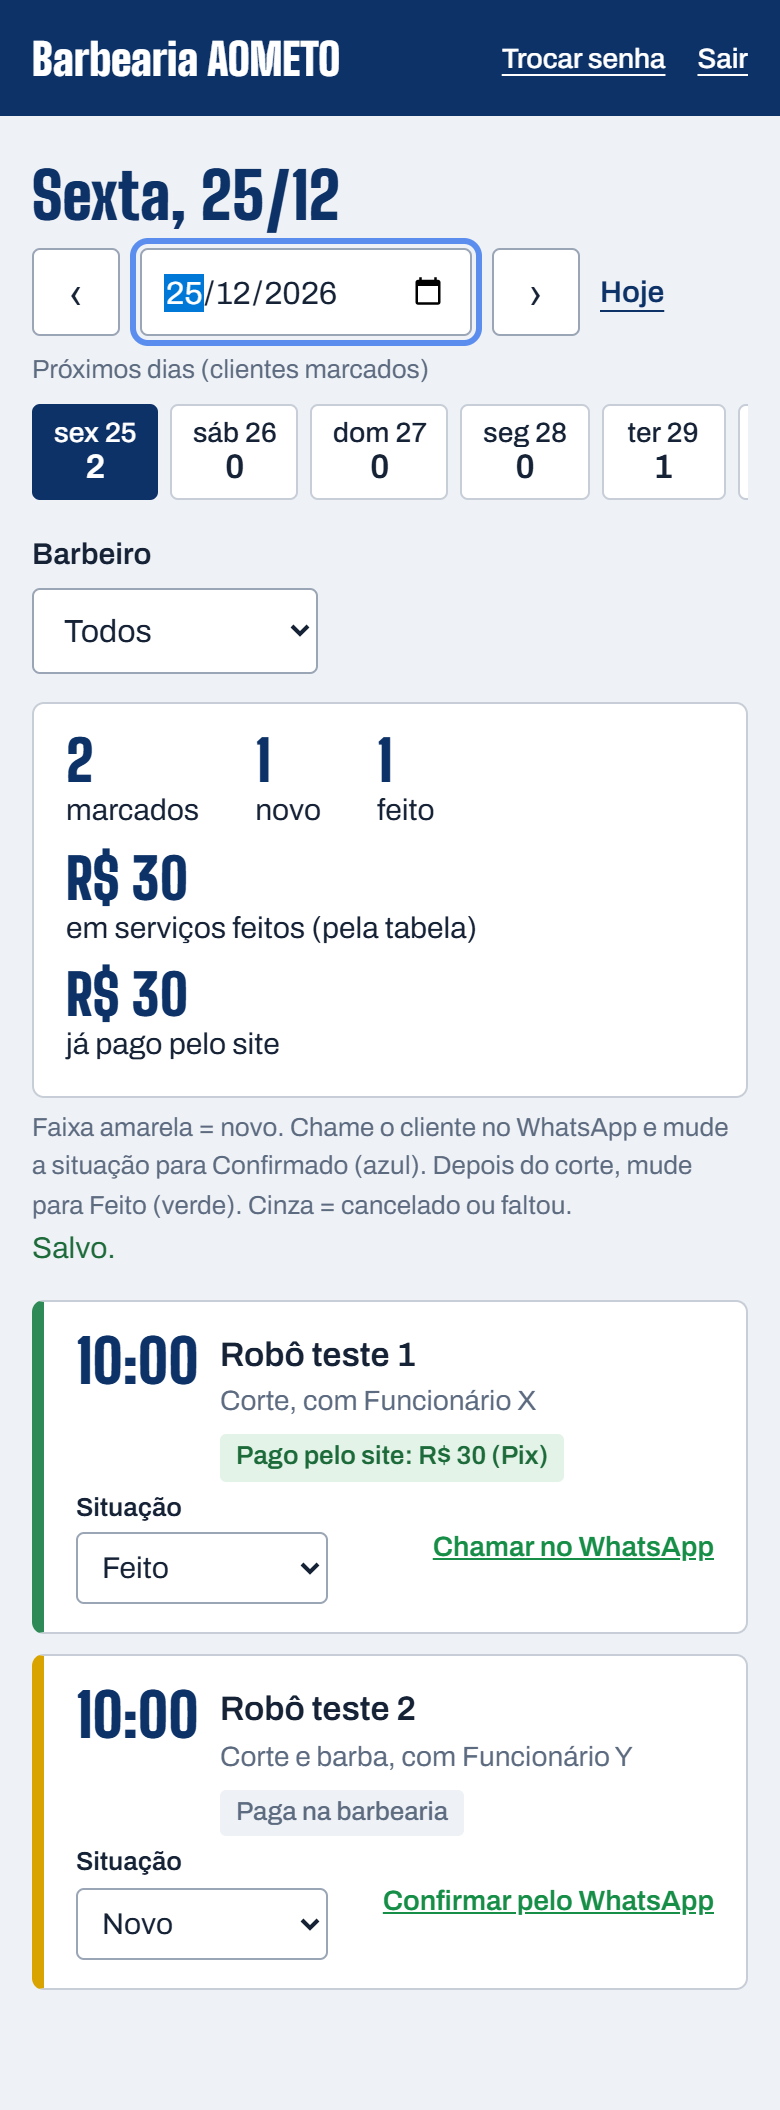
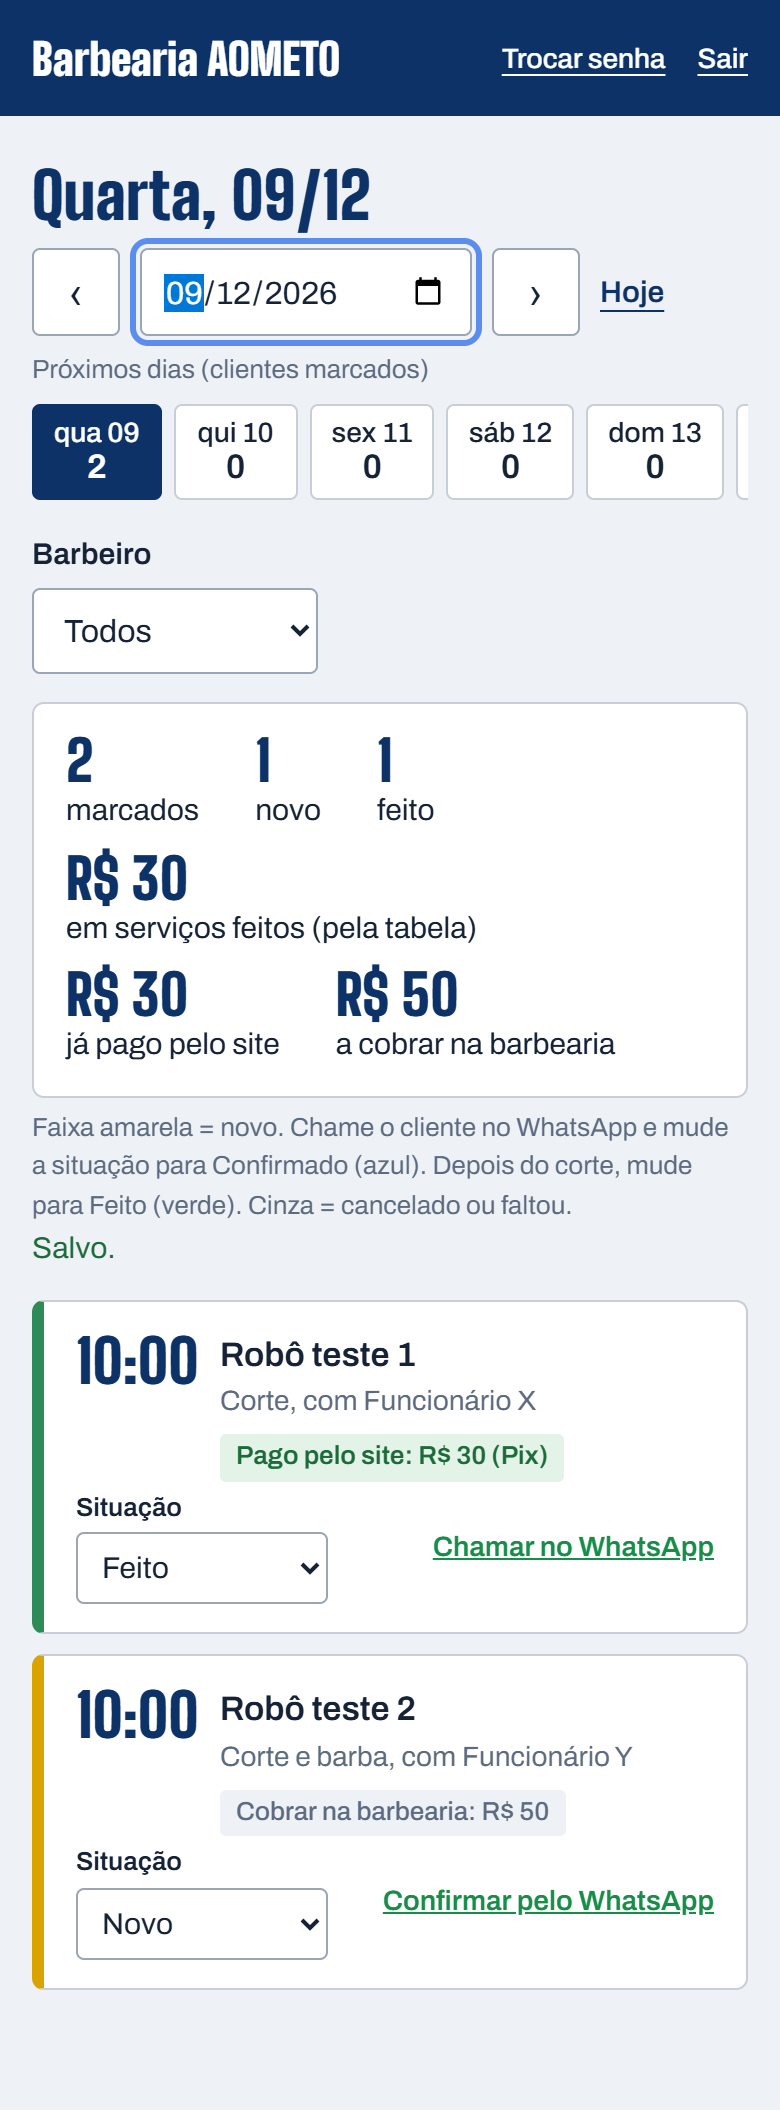
Painel mostra quanto cobrar na barbearia
Claude-Session: https://claude.ai/code/session_01786Bh4xpB8iKPeZztnvgCn

diff --git a/painel.html b/painel.html
@@ -248,7 +248,8 @@ function desenhar() {
   const pl = (n, um, varios) => `<div><b>${n}</b>${n === 1 ? um : varios}</div>`;
   $("#resumo").innerHTML = pl(marcados.length, "marcado", "marcados") + pl(novos.length, "novo", "novos") +
     pl(feitos.length, "feito", "feitos") + `<div><b>R$ ${valor}</b>em serviços feitos (pela tabela)</div>` +
-    `<div><b>R$ ${doDia.filter(i => i.pagamento === "pago" && i.status !== "cancelado").reduce((t, i) => t + Number(i.pagamento_valor), 0)}</b>já pago pelo site</div>`;
+    `<div><b>R$ ${doDia.filter(i => i.pagamento === "pago" && i.status !== "cancelado").reduce((t, i) => t + Number(i.pagamento_valor), 0)}</b>já pago pelo site</div>` +
+    `<div><b>R$ ${marcados.filter(i => i.pagamento !== "pago" && i.status !== "faltou" && i.status !== "feito").reduce((t, i) => t + (PRECOS[i.servico] || 0), 0)}</b>a cobrar na barbearia</div>`;
   if (!doDia.length) { $("#lista").innerHTML = '<p class="vazio">Nenhum horário marcado nesse dia.</p>'; return; }
   $("#lista").innerHTML = doDia.map(i => {
     const opc = SITUACOES.map(([v, t]) => `<option value="${v}"${v === i.status ? " selected" : ""}>${t}</option>`).join("");
@@ -260,7 +261,7 @@ function desenhar() {
     return `<article class="horario ${i.status}" data-id="${i.id}">
       <div class="h">${i.hora}</div>
       <div><div class="quem">${esc(i.nome)}</div><div class="det">${esc(i.servico)}, com ${esc(i.barbeiro)}</div>
-        ${i.pagamento === "pago" ? `<span class="pago">Pago pelo site: R$ ${Number(i.pagamento_valor).toFixed(0)} (${i.pagamento_forma === "pix" ? "Pix" : "cartão"})</span>` : `<span class="pago nao">Paga na barbearia</span>`}
+        ${i.pagamento === "pago" ? `<span class="pago">Pago pelo site: R$ ${Number(i.pagamento_valor).toFixed(0)} (${i.pagamento_forma === "pix" ? "Pix" : "cartão"})</span>` : i.status === "cancelado" ? "" : `<span class="pago nao">${PRECOS[i.servico] ? "Cobrar na barbearia: R$ " + PRECOS[i.servico] : "Plano mensal: sem cobrança"}</span>`}
         ${i.obs ? `<div class="obs">Obs.: ${esc(i.obs)}</div>` : ""}</div>
       <div class="lado"><label style="font-size:13px;gap:2px">Situação
         <select class="situacao" aria-label="Situação de ${esc(i.nome)} às ${i.hora}">${opc}</select></label>
